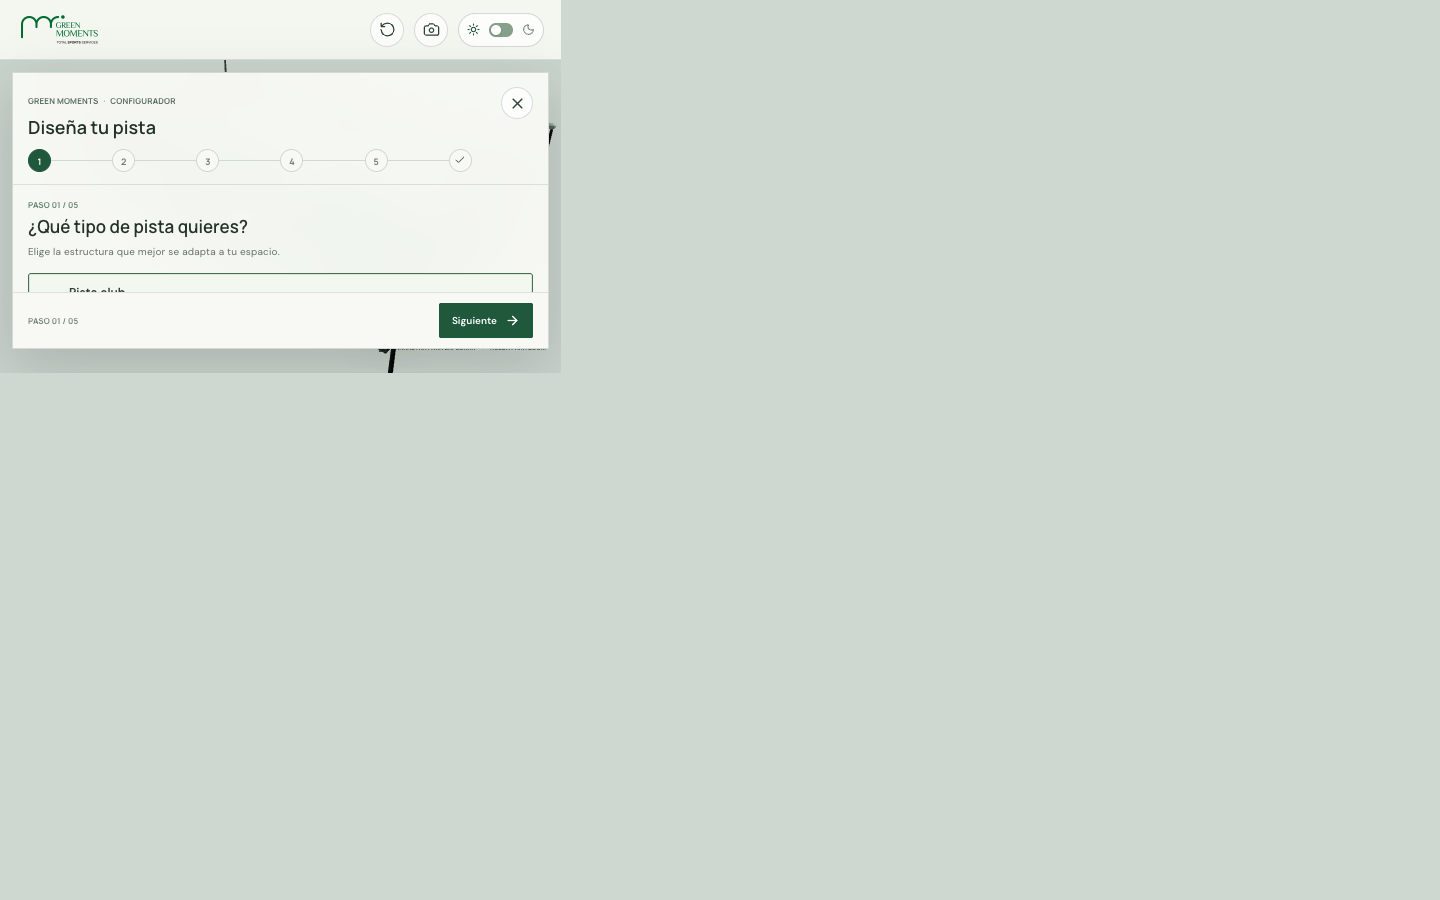
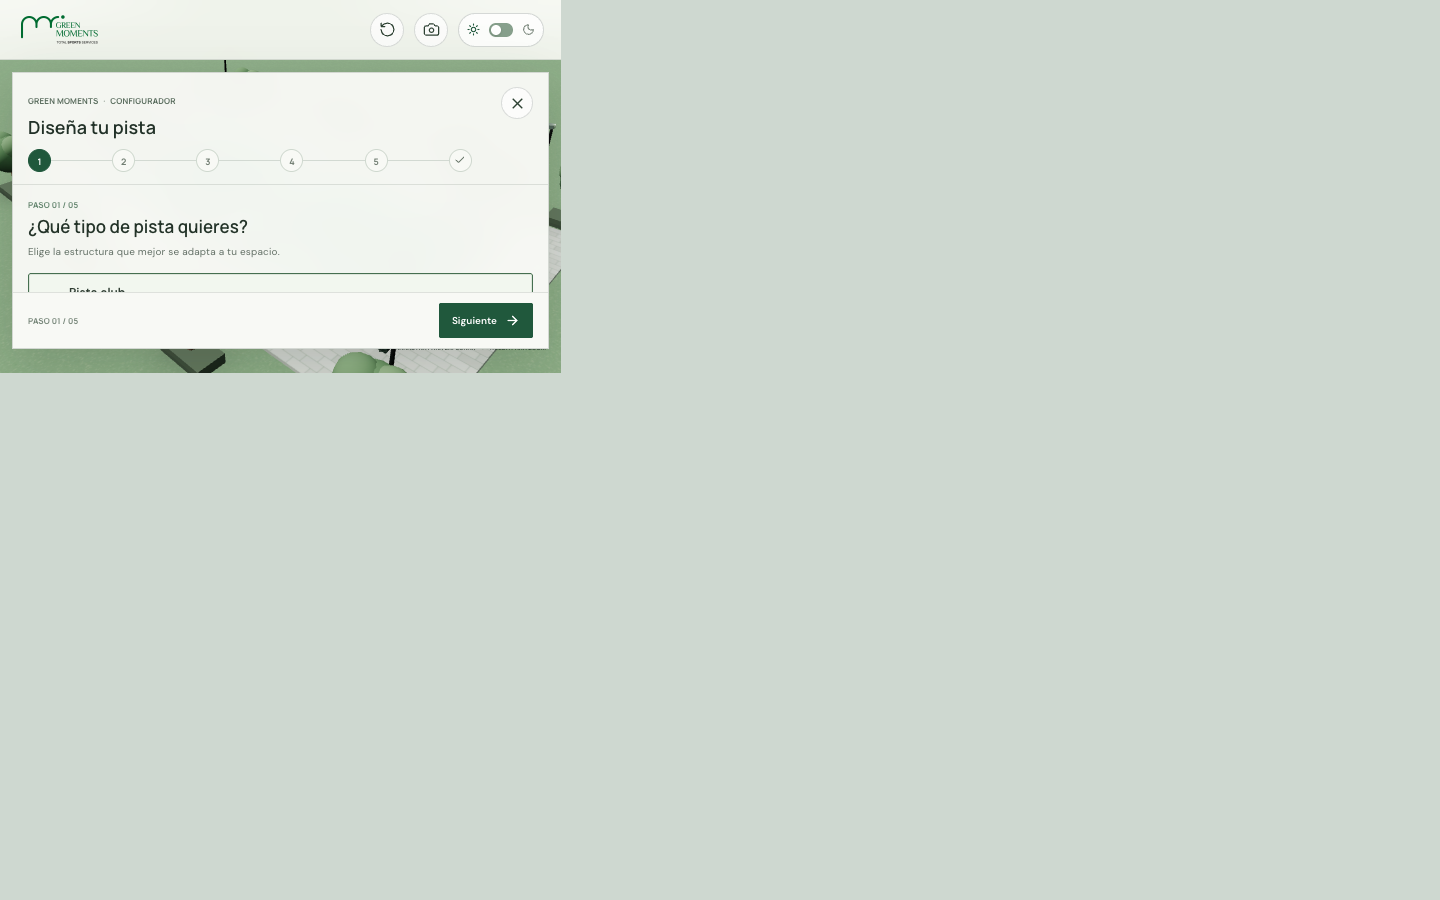
Add landscaped outdoor court surroundings

Changed region(s): [[0.0, 0.0622, 0.4062, 0.4356], [0.3125, 0.3111, 0.4062, 0.4356]]

diff --git a/src/App.tsx b/src/App.tsx
@@ -1,6 +1,6 @@
 import { Suspense, useEffect, useMemo, useState } from 'react'
 import { Canvas } from '@react-three/fiber'
-import { ContactShadows, OrbitControls, useTexture } from '@react-three/drei'
+import { ContactShadows, OrbitControls, Sky, useTexture } from '@react-three/drei'
 import { BufferGeometry, CanvasTexture, DoubleSide, Float32BufferAttribute, RepeatWrapping, SRGBColorSpace } from 'three'
 import { ArrowLeft, ArrowRight, Camera, Check, Mail, Moon, Move3D, Pencil, RotateCcw, SlidersHorizontal, Sun, X } from 'lucide-react'
 import './App.css'
@@ -91,6 +91,61 @@ function createTurfTexture(colorId: CourtConfiguration['grassColor'], grassType:
   return texture
 }
 
+function createPaverTexture() {
+  const canvas = document.createElement('canvas')
+  canvas.width = 512
+  canvas.height = 512
+  const context = canvas.getContext('2d')
+  if (!context) return new CanvasTexture(canvas)
+
+  context.fillStyle = '#798b79'
+  context.fillRect(0, 0, canvas.width, canvas.height)
+  for (let row = 0; row < 8; row += 1) {
+    const offset = row % 2 === 0 ? 0 : -48
+    for (let column = -1; column < 5; column += 1) {
+      const shade = 184 + Math.floor(Math.random() * 25)
+      context.fillStyle = `rgb(${shade}, ${shade + 3}, ${shade - 8})`
+      context.fillRect(column * 128 + offset + 2, row * 64 + 2, 124, 60)
+    }
+  }
+
+  const texture = new CanvasTexture(canvas)
+  texture.colorSpace = SRGBColorSpace
+  texture.wrapS = RepeatWrapping
+  texture.wrapT = RepeatWrapping
+  texture.repeat.set(8, 5)
+  texture.anisotropy = 8
+  return texture
+}
+
+function createLandscapeTexture() {
+  const canvas = document.createElement('canvas')
+  canvas.width = 512
+  canvas.height = 512
+  const context = canvas.getContext('2d')
+  if (!context) return new CanvasTexture(canvas)
+
+  context.fillStyle = '#708d68'
+  context.fillRect(0, 0, canvas.width, canvas.height)
+  const grassShades = ['#789771', '#849d78', '#66845f', '#91a37e']
+  for (let index = 0; index < 18000; index += 1) {
+    const x = Math.random() * canvas.width
+    const y = Math.random() * canvas.height
+    context.globalAlpha = 0.12 + Math.random() * 0.2
+    context.fillStyle = grassShades[Math.floor(Math.random() * grassShades.length)]
+    context.fillRect(x, y, 1 + Math.random() * 3, 1 + Math.random() * 4)
+  }
+  context.globalAlpha = 1
+
+  const texture = new CanvasTexture(canvas)
+  texture.colorSpace = SRGBColorSpace
+  texture.wrapS = RepeatWrapping
+  texture.wrapT = RepeatWrapping
+  texture.repeat.set(12, 12)
+  texture.anisotropy = 8
+  return texture
+}
+
 function CourtScene({ night, court }: { night: boolean; court: CourtConfiguration }) {
   const turf = useMemo(() => createTurfTexture(court.grassColor, court.grassType), [court.grassColor, court.grassType])
   const frameColor = frameColors.find((option) => option.id === court.frameColor)?.color ?? '#242a27'
@@ -121,18 +176,16 @@ function CourtScene({ night, court }: { night: boolean; court: CourtConfiguratio
 
   return (
     <>
-      <color attach="background" args={[night ? '#18221d' : '#cfd9d1']} />
-      <fog attach="fog" args={[night ? '#18221d' : '#cfd9d1', 27, 58]} />
+      <color attach="background" args={[night ? '#18221d' : '#a9c7c8']} />
+      <fog attach="fog" args={[night ? '#18221d' : '#b9cdca', 38, 180]} />
+      <Sky distance={90} sunPosition={night ? [0, -1, 0] : [-0.35, 0.72, 0.45]} turbidity={night ? 2 : 5} rayleigh={night ? 0.25 : 1.4} mieCoefficient={0.004} mieDirectionalG={0.78} />
       <hemisphereLight args={['#e9f7ee', '#38443a', night ? 0.62 : 2.1]} />
       <directionalLight position={[-7, 15, 8]} intensity={night ? 0.22 : 3.2} castShadow shadow-mapSize={[2048, 2048]} />
       {court.lighting !== 'none' && floodlightPositions.map(([x, y, z]) => (
         <pointLight key={`${x}-${z}`} position={[x, y, z]} intensity={night ? 18 : 0.3} distance={night ? 24 : 6} color="#f1f8d6" decay={2} />
       ))}
 
-      <mesh rotation={[-Math.PI / 2, 0, 0]} position={[0, -0.14, 0]} receiveShadow>
-        <planeGeometry args={[60, 60]} />
-        <meshStandardMaterial color={night ? '#26342c' : '#b2bdb3'} roughness={0.94} />
-      </mesh>
+      <OutdoorEnvironment night={night} />
       <mesh position={[0, 0, 0]} receiveShadow castShadow>
         <boxGeometry args={[20.35, 0.16, 10.35]} />
         <meshStandardMaterial color="#1e3228" roughness={0.7} />
@@ -164,6 +217,43 @@ function CourtScene({ night, court }: { night: boolean; court: CourtConfiguratio
       <ContactShadows position={[0, -0.055, 0]} opacity={night ? 0.45 : 0.25} scale={28} blur={2.8} far={8} />
       <OrbitControls makeDefault target={[0, 1.2, 0]} minDistance={13} maxDistance={32} minPolarAngle={0.35} maxPolarAngle={1.42} enablePan={false} dampingFactor={0.08} />
     </>
+  )
+}
+
+function OutdoorEnvironment({ night }: { night: boolean }) {
+  const pavers = useMemo(() => createPaverTexture(), [])
+  const landscape = useMemo(() => createLandscapeTexture(), [])
+  const treePositions: [number, number][] = [
+    [-12, -9], [-3.5, -9.7], [5, -10], [12, -9],
+    [-12, 9], [-3.5, 9.7], [5, 10], [12, 9],
+  ]
+
+  return (
+    <group>
+      <mesh rotation={[-Math.PI / 2, 0, 0]} position={[0, -0.25, 0]} receiveShadow>
+        <planeGeometry args={[120, 120]} />
+        <meshStandardMaterial map={landscape} color={night ? '#9aa194' : '#ffffff'} roughness={1} />
+      </mesh>
+      <mesh position={[0, -0.15, 0]} receiveShadow>
+        <boxGeometry args={[26, 0.14, 16]} />
+        <meshStandardMaterial map={pavers} color={night ? '#89948a' : '#ffffff'} roughness={0.92} />
+      </mesh>
+      {treePositions.map(([x, z], index) => <ParkTree key={`park-tree-${index}`} x={x} z={z} variant={index % 3} />)}
+    </group>
+  )
+}
+
+function ParkTree({ x, z, variant }: { x: number; z: number; variant: number }) {
+  const leaves = ['#54734f', '#66865b', '#486a4b']
+  const foliageColor = leaves[variant]
+  return (
+    <group position={[x, -0.24, z]}>
+      <mesh position={[0, 0.22, 0]} castShadow receiveShadow><boxGeometry args={[2.25, 0.44, 1.25]} /><meshStandardMaterial color="#56634f" roughness={0.88} /></mesh>
+      <mesh position={[0, 1.22, 0]} castShadow><cylinderGeometry args={[0.11, 0.18, 1.85, 8]} /><meshStandardMaterial color="#735b43" roughness={0.94} /></mesh>
+      <mesh position={[0, 2.56, 0]} castShadow><sphereGeometry args={[1.02, 14, 12]} /><meshStandardMaterial color={foliageColor} roughness={0.92} /></mesh>
+      <mesh position={[-0.42, 3.03, 0.12]} castShadow><sphereGeometry args={[0.72, 12, 10]} /><meshStandardMaterial color="#6e8d62" roughness={0.95} /></mesh>
+      <mesh position={[0.46, 2.98, -0.16]} castShadow><sphereGeometry args={[0.69, 12, 10]} /><meshStandardMaterial color="#78966a" roughness={0.95} /></mesh>
+    </group>
   )
 }
 

diff --git a/README.md b/README.md
@@ -1,6 +1,6 @@
 # Green Moments | Pista de pádel
 
-Visualización 3D interactiva de una pista de pádel con césped artificial, cerramiento de vidrio y malla, iluminación y señalización Green Moments.
+Visualización 3D interactiva de una pista de pádel con césped artificial, cerramiento de vidrio y malla, iluminación, pavimento exterior, vegetación y señalización Green Moments.
 
 Permite configurar una pista en cinco pasos y ver cada cambio directamente en el render.
 
